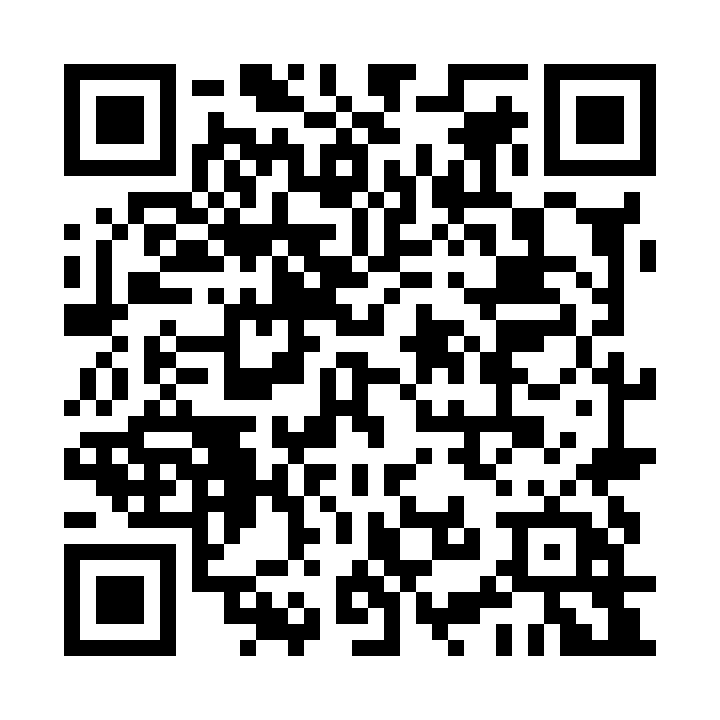
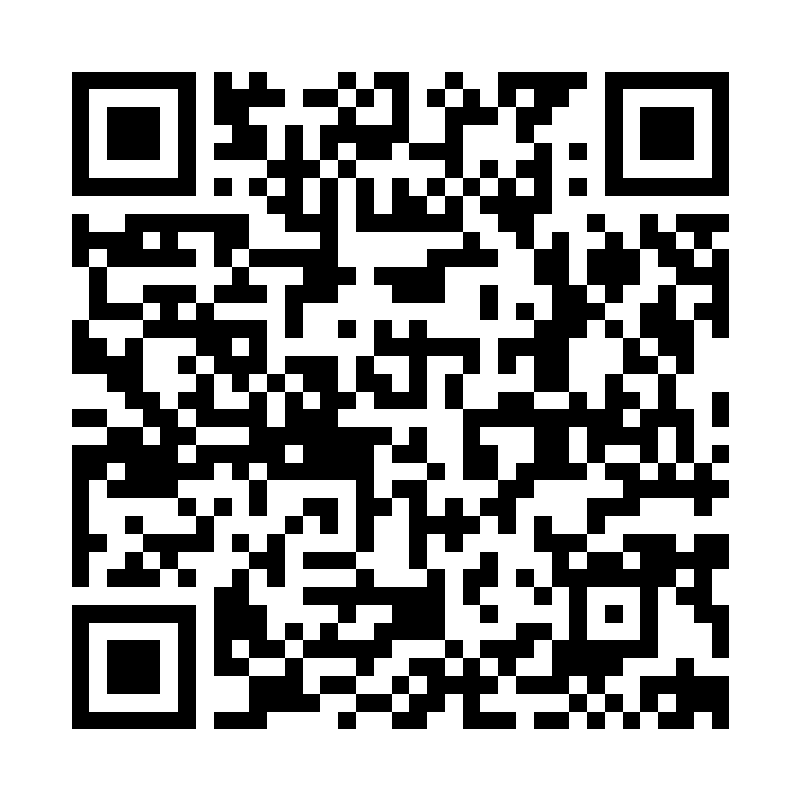
point visitor qr to cloudbase

Changed region(s): [[0.0917, 0.0917, 0.9167, 0.9167]]

diff --git a/README.md b/README.md
@@ -73,7 +73,11 @@ npx --package @cloudbase/cli@3.8.1 tcb validate
 npx --package @cloudbase/cli@3.8.1 tcb deploy
 ```
 
-线上验收依次检查 `/api/health` 返回 PostgreSQL、访客提交成功并显示完整登记摘要、后台可查询到一致记录，以及微信扫描固定二维码能够完成登记。最终 CloudBase 公网 URL、后台地址、健康检查地址和验证日期只在实际部署及真机联调成功后回填；在此之前不生成或发布新的固定二维码。
+线上验收依次检查 `/api/health` 返回 PostgreSQL、访客提交成功并显示完整登记摘要、后台可查询到一致记录，以及微信扫描固定二维码能够完成登记。当前 CloudBase 公网入口如下：
+
+- 手机登记页：<https://puya-visitor-system-d8bjd061ec19-1421207492.ap-shanghai.app.tcloudbase.com/>
+- 后台入口：<https://puya-visitor-system-d8bjd061ec19-1421207492.ap-shanghai.app.tcloudbase.com/admin>
+- 健康检查：<https://puya-visitor-system-d8bjd061ec19-1421207492.ap-shanghai.app.tcloudbase.com/api/health>
 
 CloudBase 免费环境需要定期续期并监控资源点、函数、数据库和流量配额，不应按永久无限额服务规划。
 
